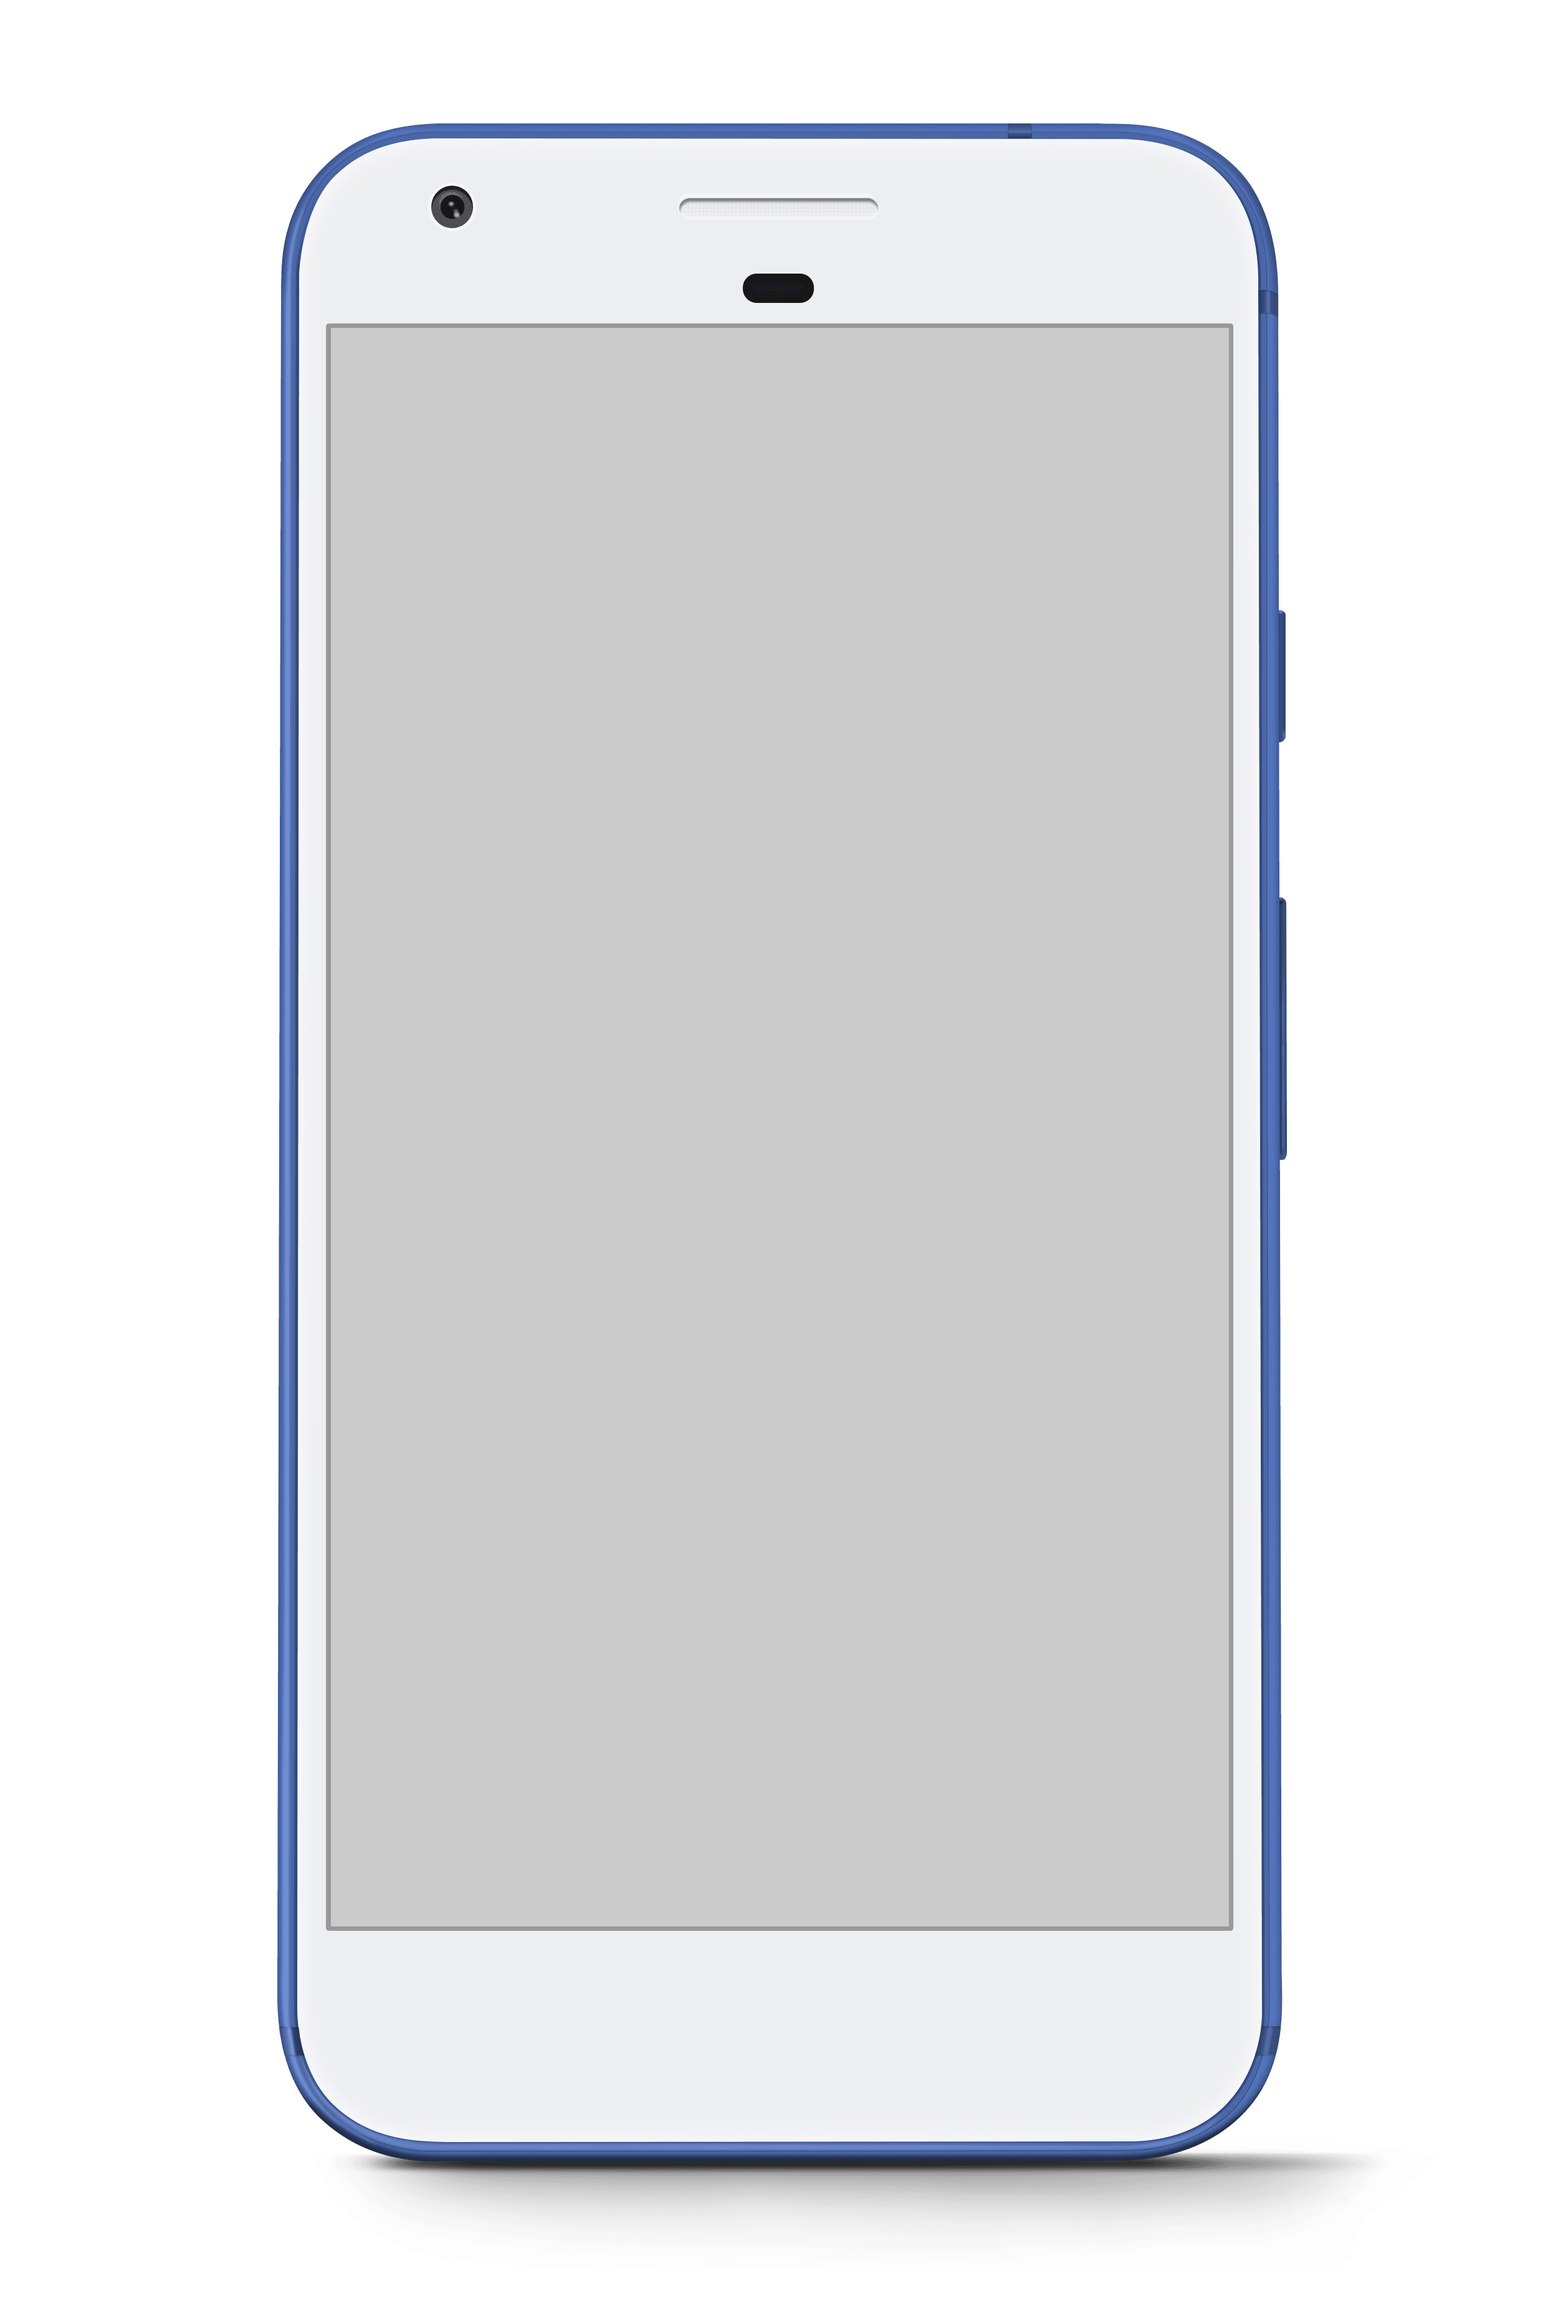
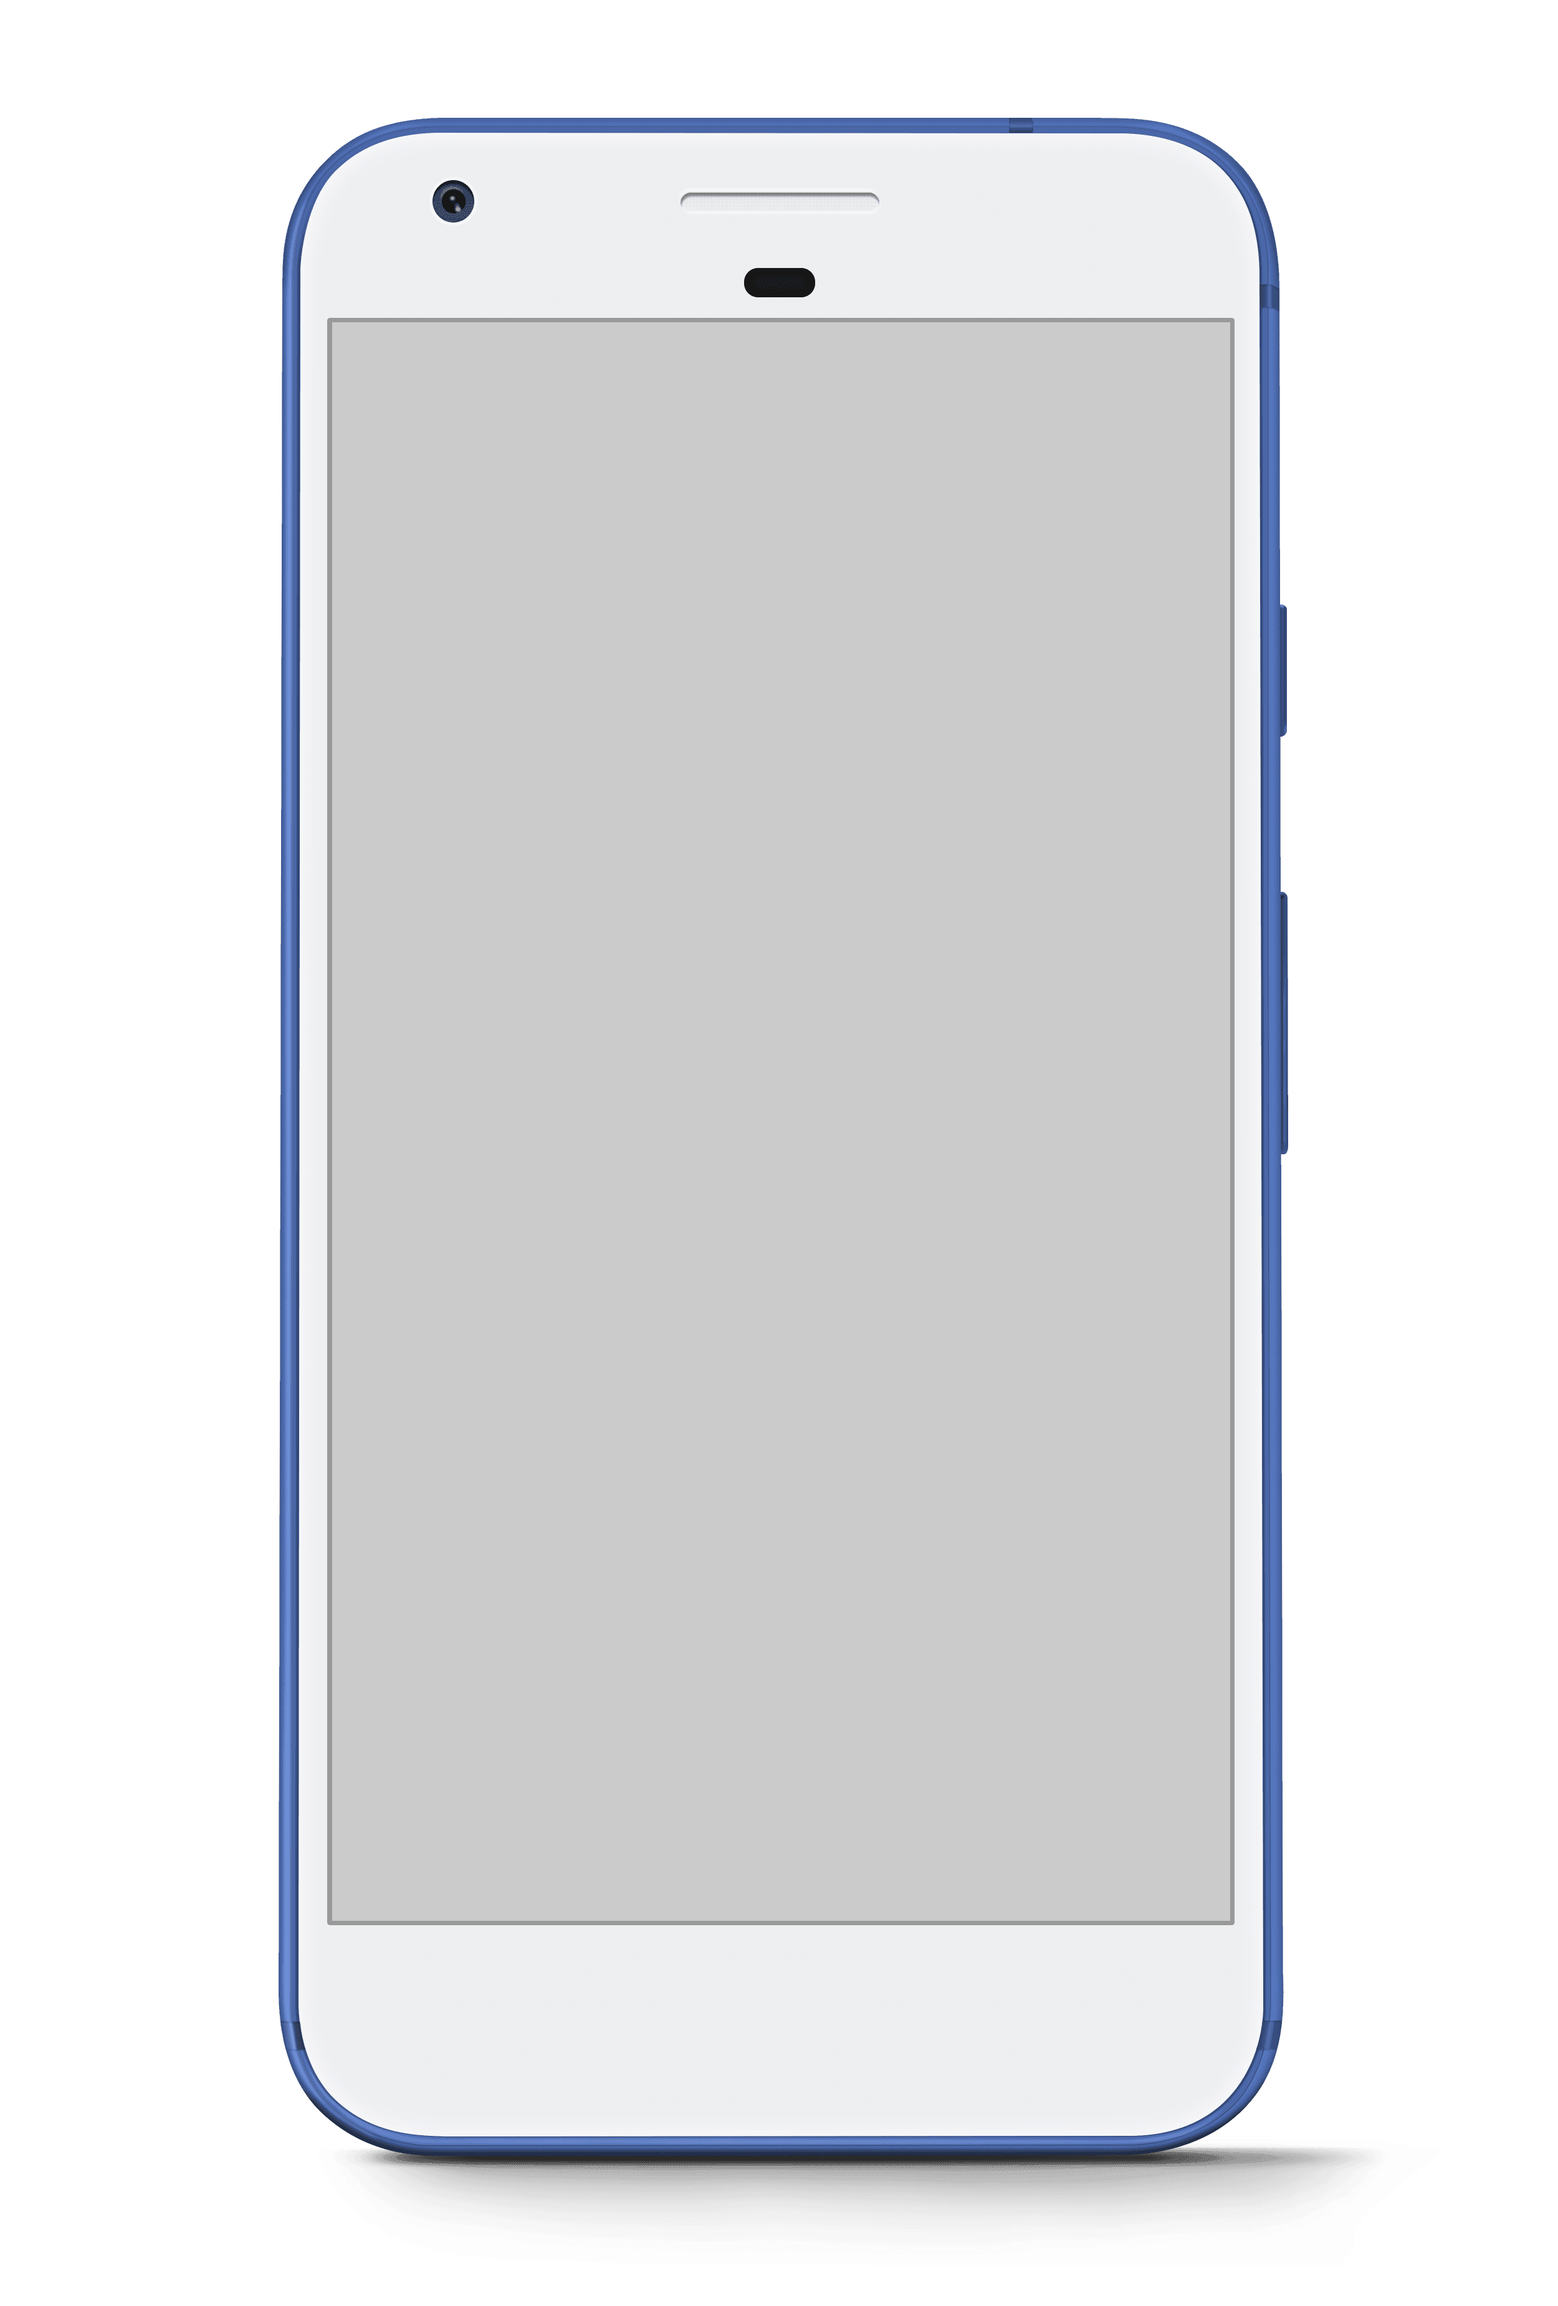
resize the phone and scripts to change background

diff --git a/css/index.css b/css/index.css
@@ -16,6 +16,7 @@ body {
   background-position: right top;
   background-attachment: fixed;
   background-size: cover;
+  transition: background-image ease 0.8s;
 }
 html {
   width: 100%;
@@ -171,24 +172,23 @@ Phone background and display
 
 .phone-background,
 .phone-display{
-  height: 65vh;
+  height: 68vh;
   width: 45vh;
   max-height: 80vh;
   max-width: 80vh;
 }
 .phone-background {
-  z-index: 1;
   background-image: url("../img/google_blue.png");
   background-repeat: no-repeat;
   background-position: center top;
-  background-size: 100% auto; /*=cover */
+  background-size: 105% auto; /*100%*/ /*=cover */
 }
 .sp{
   position: relative;
   background-image: url("../img/spotter/6.png");
   background-repeat: no-repeat;
   background-position: center;
-  background-size: 57.8% auto;
+  background-size: 60.8% auto; /*57.8% auto;*/
   -webkit-transition: background-image  0.25s ease-in-out;
   -moz-transition: background-image  0.25s ease-in-out;
   -o-transition: background-image  0.25s ease-in-out;
@@ -196,7 +196,7 @@ Phone background and display
 }
 #tabs{
   z-index: 3;
-  bottom: 10.2vh;
+  bottom: 10.5vh;
   left: 10vh;
   width: 25vh;
   height: 2.5vh;

diff --git a/js/activeSection.js b/js/activeSection.js
@@ -44,6 +44,8 @@ function showActiveSection(){
         $('#projects-link').focus();
         activeSection = 'Projects';
         $('.active-section').html(activeSection);
+        //idea for later, changing background-image, but it's too distracting right now in the current setting
+        //$('body').css("background-image", "url('./img/projects-background-thumb.png')");
     }
     else if (verticalScrollHeight > projectsSectionHeight
         && verticalScrollHeight <= contactSectionHeight) {
@@ -56,6 +58,7 @@ function showActiveSection(){
         activeSection = 'Home';
         $('#intro-link').focus();
         $('.active-section').html(activeSection);
+        //$('body').css("background-image", "url('./img/intro-background.jpg')");
     }
 
 }

diff --git a/index.html b/index.html
@@ -101,7 +101,7 @@
               <h1>Personal projects</h1>
               <br>
               <div class="row ">
-                <div class="col-xl-6 col-lg-6 col-md-12 col-sm-12 col-12">
+                <div class="col-xl-6 col-lg-12 col-md-12 col-sm-12 col-12">
 
                   <h3>Lorem ipsum dolor</h3>
                   <p>
@@ -130,7 +130,7 @@
 
                 </div>
 
-                <div class="col-xl-6 col-lg-6 col-md-12 col-sm-12 col-12">
+                <div class="col-xl-6 col-lg-12 col-md-12 col-sm-12 col-12">
                   <div class="row justify-content-around">
                     <div id="phone-background" class="phone-background">
                       <div id="phone-display" class="phone-display sp">
